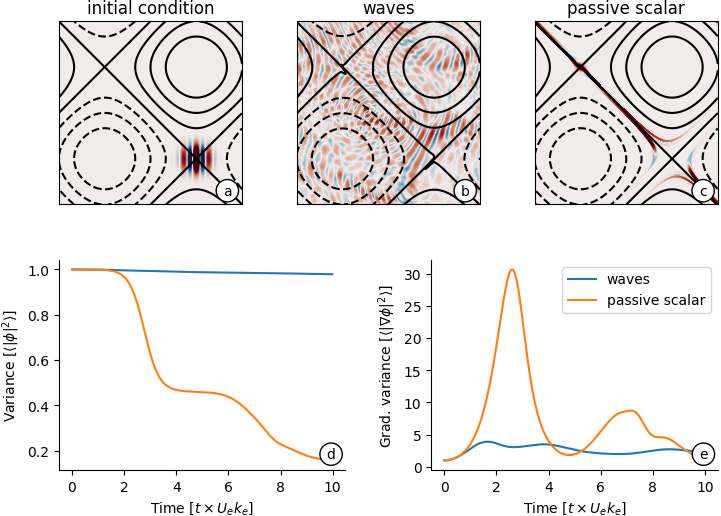
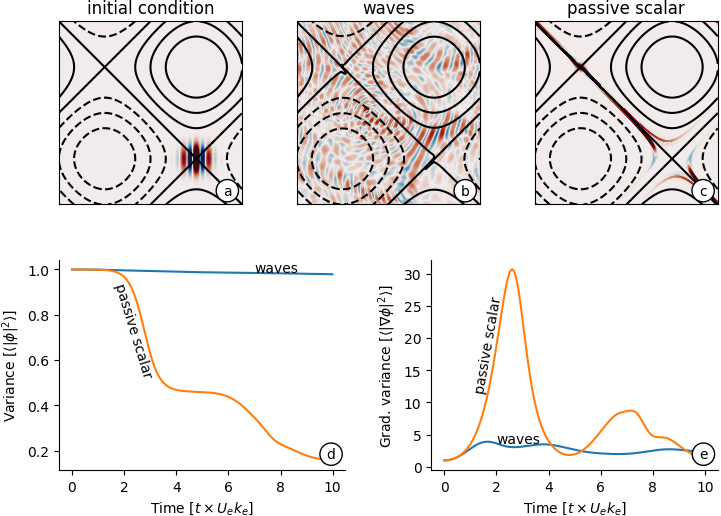
Updates escaping soln

diff --git a/code/FigureWaveEscaping.py b/code/FigureWaveEscaping.py
@@ -1,6 +1,5 @@
 """
-    Plots figure 1: snapshots vorticity and near-inertial
-                    kinetic energy density of the Lamb-Chapygin dipole solution.
+   Plot figure wave escaping. 
 """
 
 import h5py
@@ -95,6 +94,10 @@ ax.plot(diags_passive['time'][:]/Te,diags_passive['C2'][:]/diags_passive['C2'][0
 plt.xlabel(r"Time $[t \times U_e k_e]$")
 plt.ylabel(r"Variance [$\langle |\phi|^2\rangle]$")
 plot_fig_label(ax, label="d")
+
+ax.text(7,.99,"waves")
+ax.text(1.52,.9,"passive scalar",rotation=-73)
+
 ax.spines['right'].set_visible(False)
 ax.spines['top'].set_visible(False)
 fig.subplots_adjust(wspace=.3)
@@ -104,10 +107,14 @@ ax2.plot(diags['time'][:]/Te,diags['Pw'][:]/diags['Pw'][0],label='waves')
 ax2.plot(diags_passive['time'][:]/Te,diags_passive['gradC2'][:]/diags_passive['gradC2'][0],label='passive scalar')
 plt.xlabel(r"Time $[t \times U_e k_e]$")
 plt.ylabel(r"Grad. variance [$\langle |\nabla\phi|^2\rangle]$")
-plt.legend()
+#plt.legend()
 plot_fig_label(ax2, label="e")
 ax2.spines['right'].set_visible(False)
 ax2.spines['top'].set_visible(False)
+
+ax2.text(2,3.75,"waves")
+ax2.text(1.1,25,"passive scalar",rotation=80)
+
 plt.savefig(patho+"figesc.png",
             pad_inches=0,
             bbox_inches='tight',)#dpi=400)
